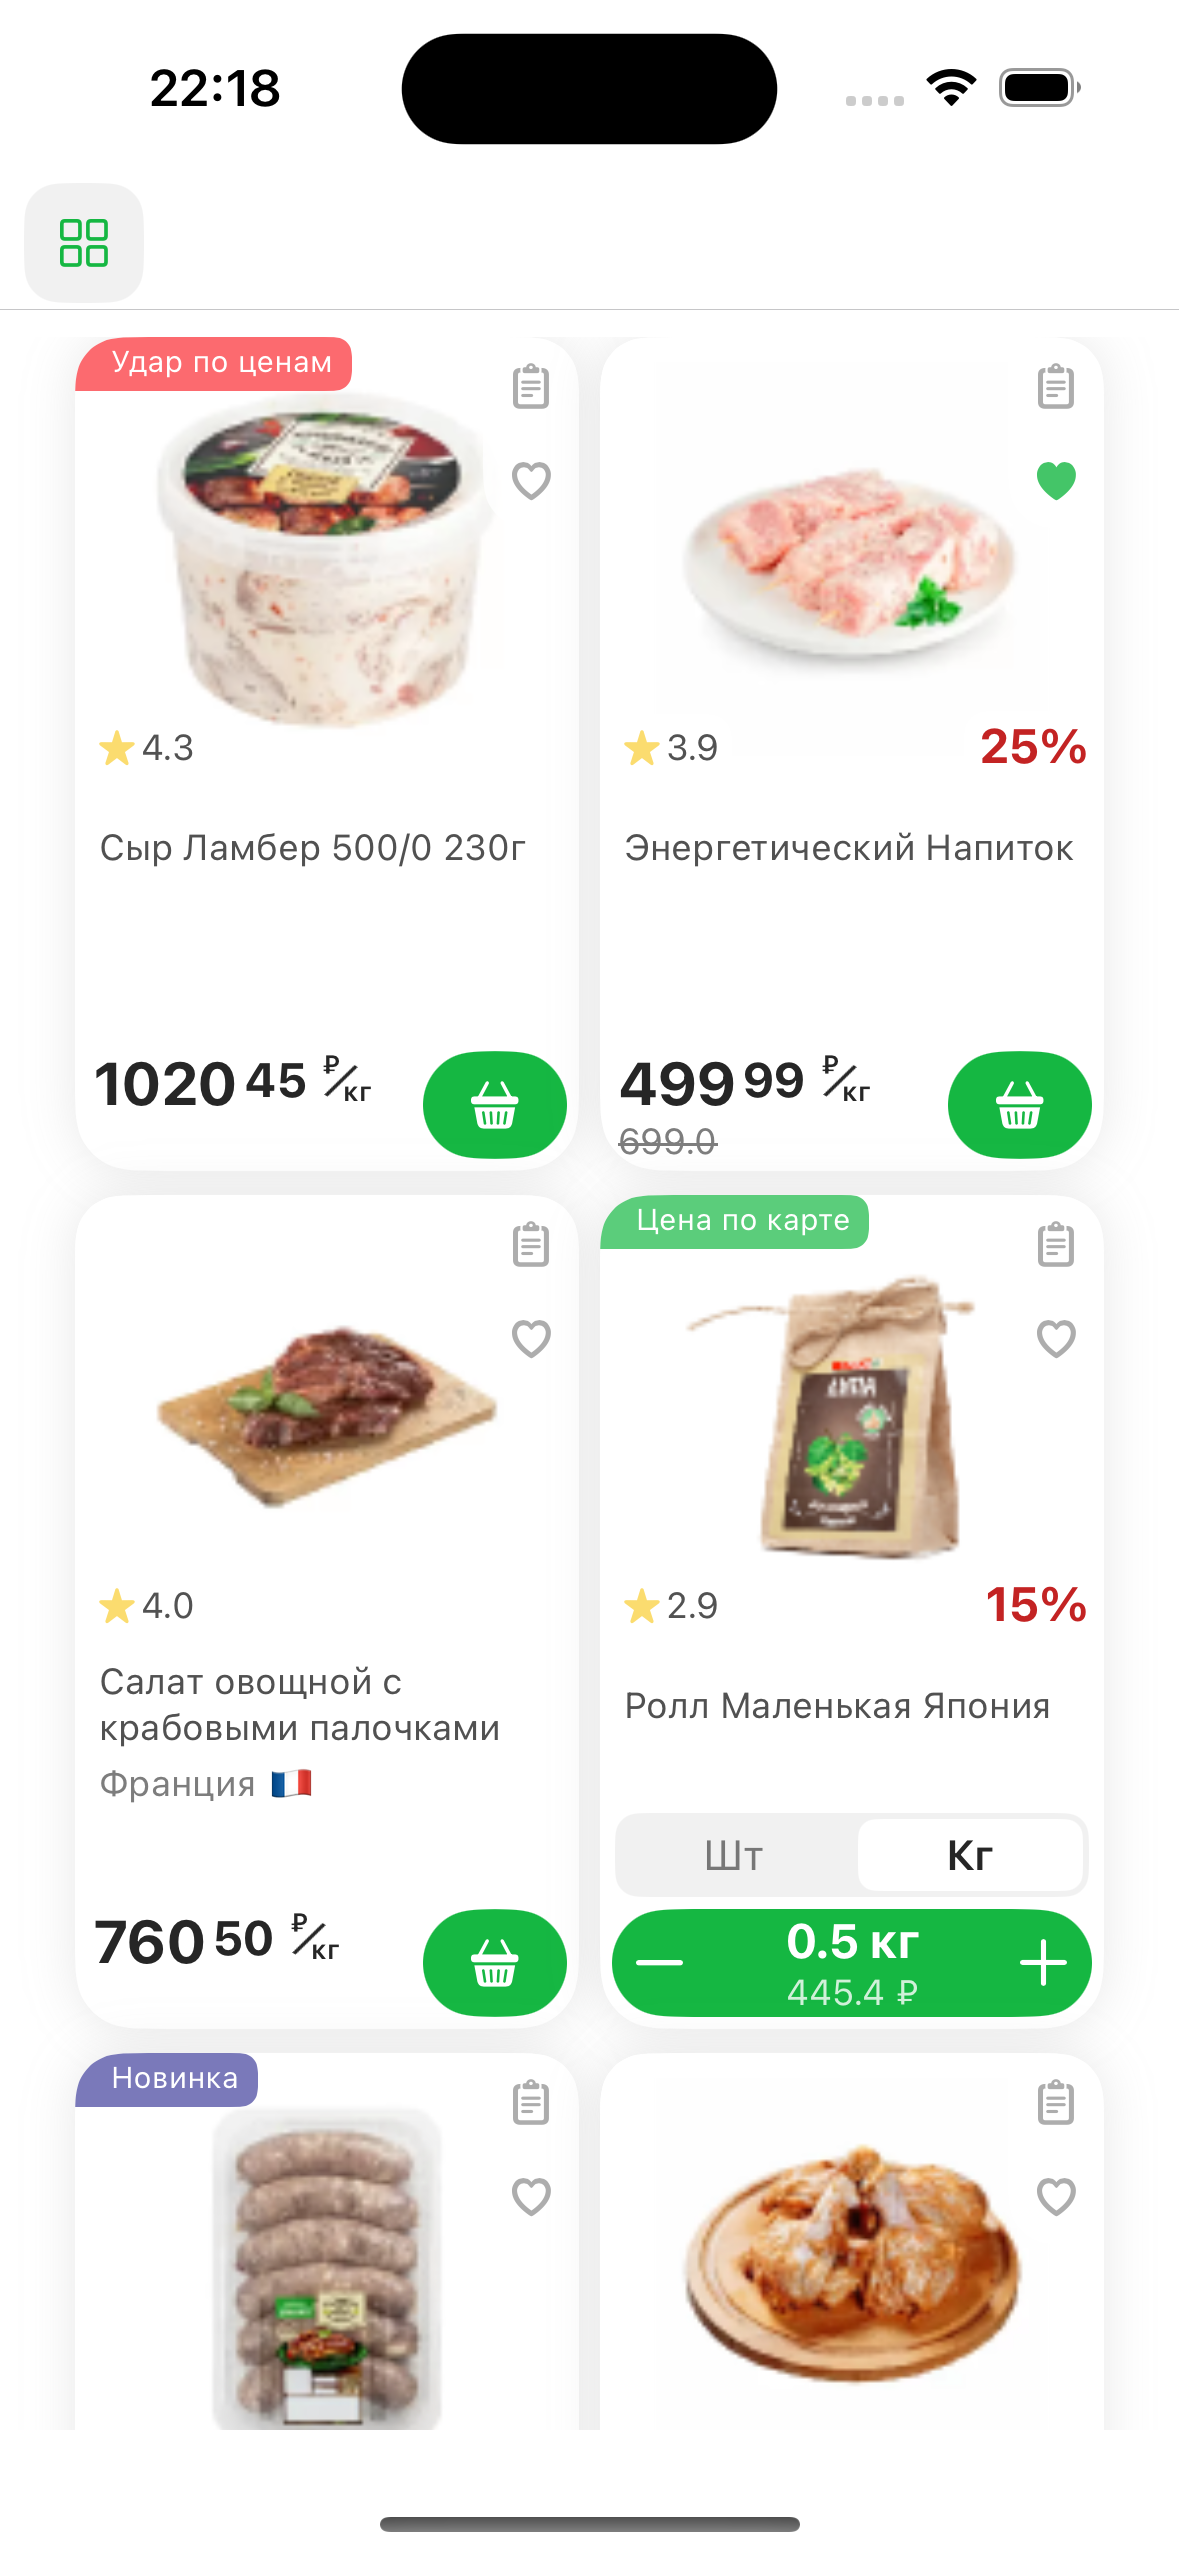
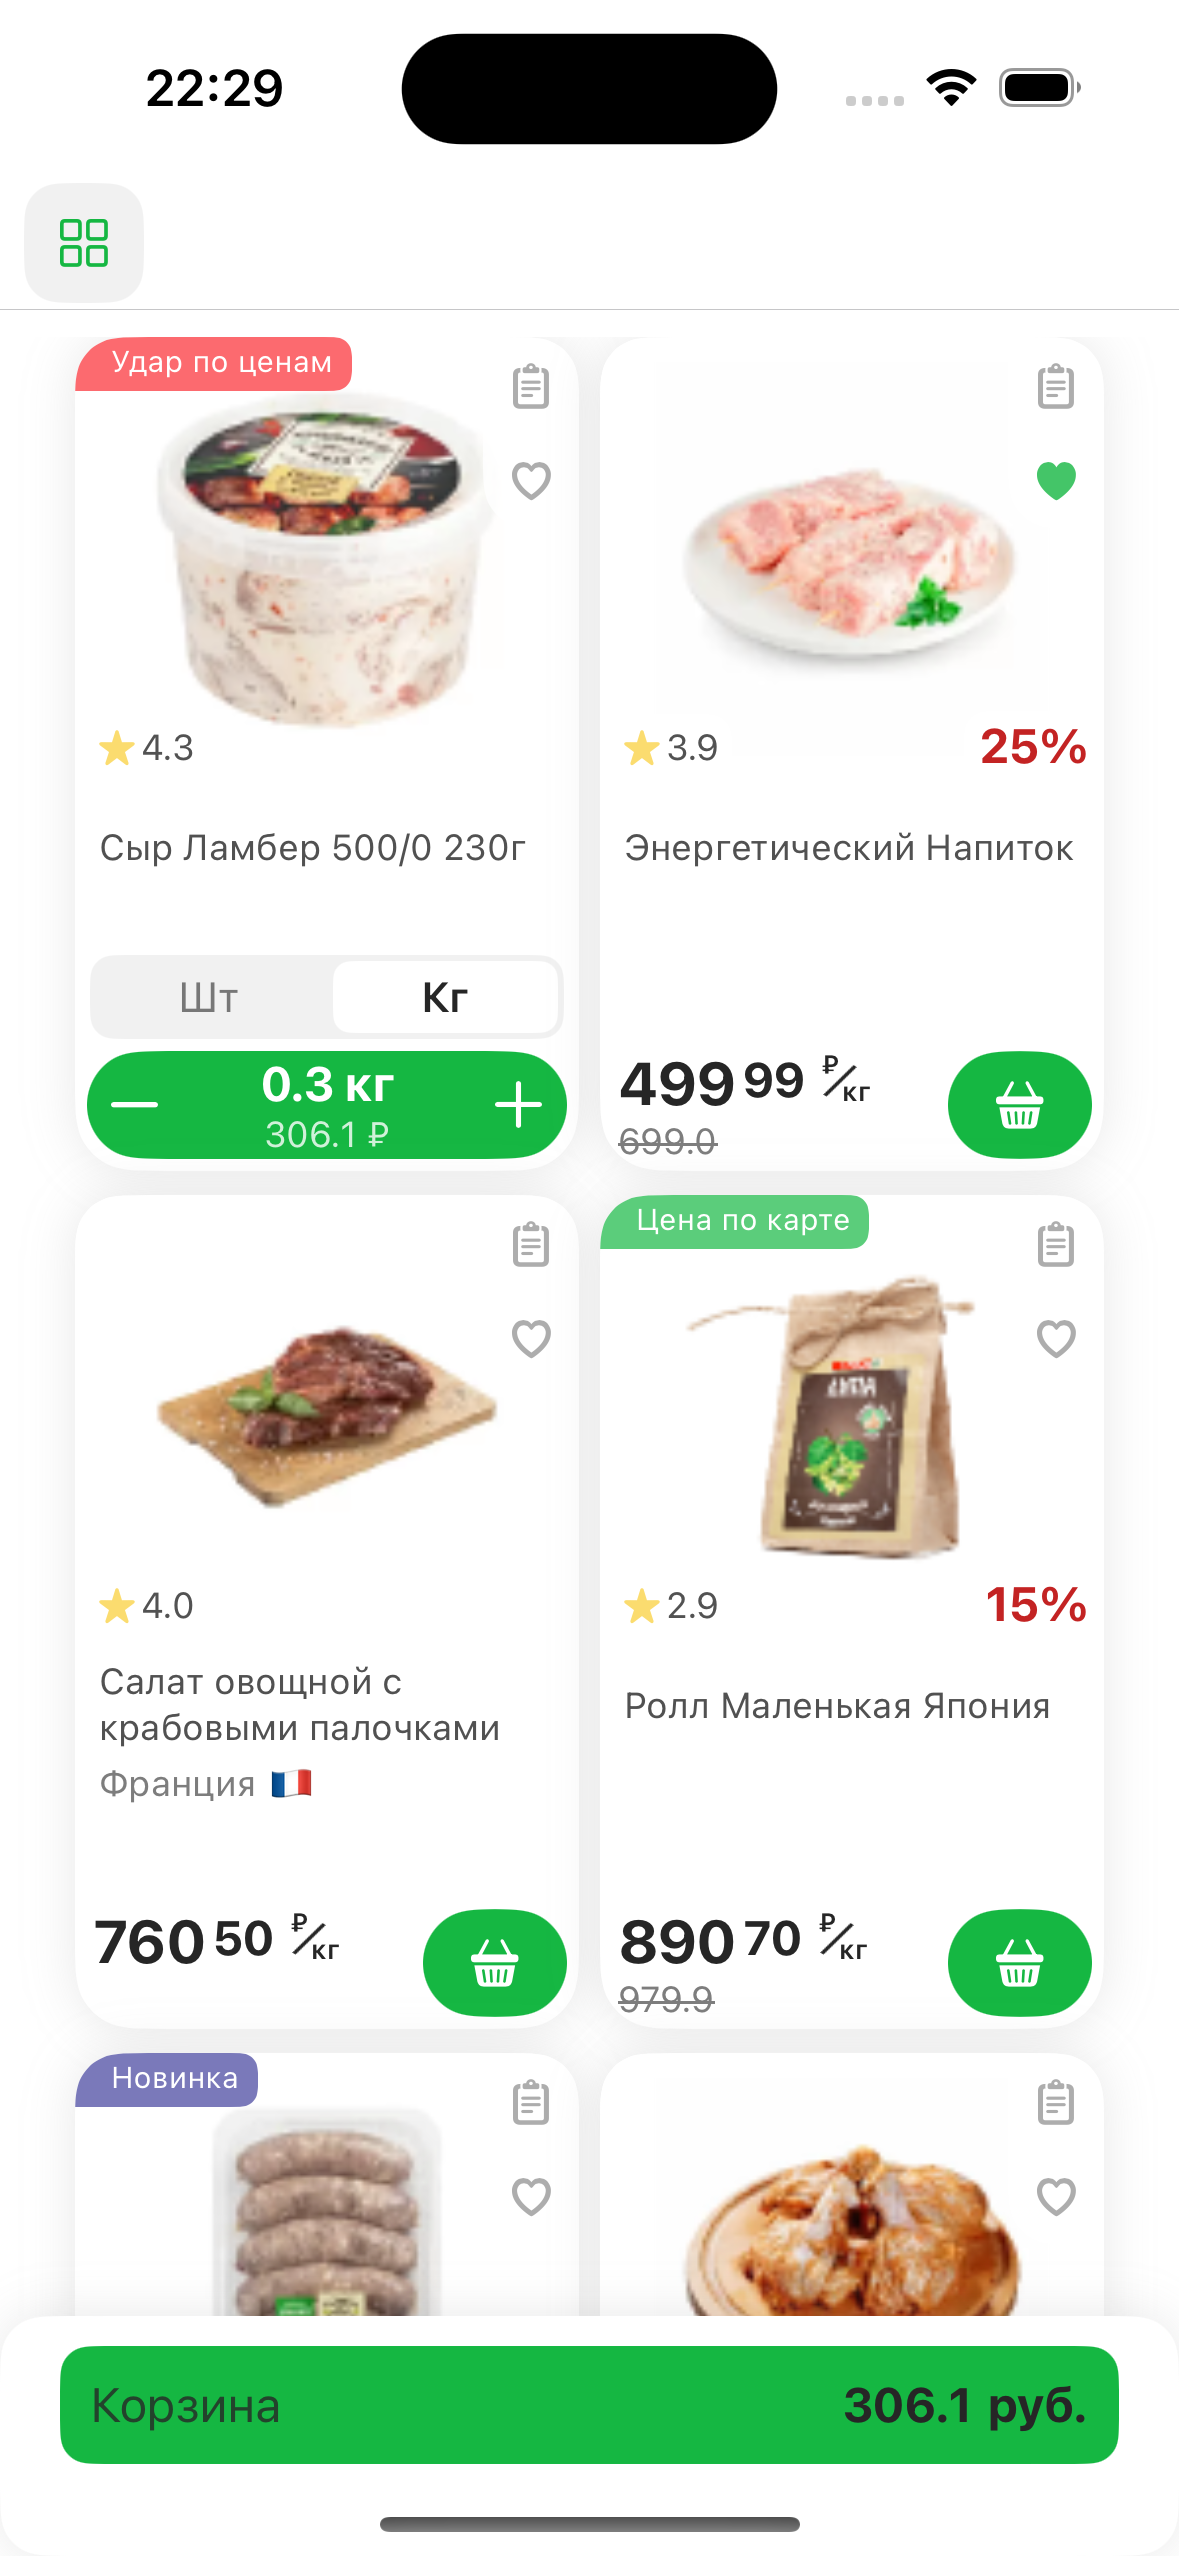
Little fixes

diff --git a/GroceryStore/Views/GridCell.swift b/GroceryStore/Views/GridCell.swift
@@ -9,9 +9,6 @@ import SwiftUI
 
 struct GridCell: View {
     
-    @State private var selectedOption: String = "Кг"
-    @State private var isBuyButtonSelected: Bool = false
-    @ObservedObject var viewModel: FoodSelectionViewModel
     @Binding var foodData: Food
     
     var body: some View {
@@ -24,7 +21,7 @@ struct GridCell: View {
                     HStack(alignment: .top, spacing: 0) {
                         SpecialOfferView(offerText: foodData.specialOffer, offerColor: foodData.specialOfferColor)
                         Spacer()
-                        ActionButtonsView()
+                        ActionButtonsView(isHeartButtonTapped: $foodData.isSelected)
                     }
                     Spacer()
                     HStack(alignment: .bottom, spacing: 0) {
@@ -35,7 +32,6 @@ struct GridCell: View {
                 }
             }
             .frame(width: 168, height: 148)
-            
             
             // middle
             VStack(alignment: .leading, spacing: 0) {
@@ -49,8 +45,8 @@ struct GridCell: View {
             .frame(width: 168, height: 58)
             
             VStack(alignment: .leading, spacing: 0) {
-                if isBuyButtonSelected {
-                    SwitchView(selectedOption: $selectedOption)
+                if foodData.isBuyButtonSelected {
+                    SwitchView(selectedOption: $foodData.selectedOption)
                         .padding(.horizontal, 5)
                 }
             }
@@ -58,12 +54,12 @@ struct GridCell: View {
             
             // bottom
             HStack(spacing: 0) {
-                if isBuyButtonSelected {
-                    if selectedOption == "Кг" {
-                        CounterKilosView(isBuyButtonSelected: $isBuyButtonSelected, pricePerKilo: foodData.pricePerKilo)
+                if foodData.isBuyButtonSelected {
+                    if foodData.selectedOption == "Кг" {
+                        CounterKilosView(kilos: $foodData.amountInKilos, finalKiloPrice: $foodData.finalKiloPrice, isBuyButtonSelected: $foodData.isBuyButtonSelected, pricePerKilo: foodData.pricePerKilo)
                             .padding(4)
                     } else {
-                        CounterAmountView(isBuyButtonSelected: $isBuyButtonSelected, priceForOne: foodData.priceForOne)
+                        CounterAmountView(amount: $foodData.amount, finalAmountPrice: $foodData.finalAmountPrice, isBuyButtonSelected: $foodData.isBuyButtonSelected, priceForOne: foodData.priceForOne)
                             .padding(4)
                     }
                     
@@ -72,10 +68,9 @@ struct GridCell: View {
                         .padding(4)
                         .padding(.leading, 2)
                     Spacer()
-                    BuyButtonView(isBuyButtonSelected: $isBuyButtonSelected)
+                    BuyButtonView(isBuyButtonSelected: $foodData.isBuyButtonSelected)
                         .padding(4)
                 }
-                
             }
             .frame(width: 168, height: 44)
         }
@@ -89,6 +84,13 @@ struct GridCell: View {
                 topTrailingRadius: 16
             )
         )
+        .onChange(of: foodData.isBuyButtonSelected) { _, _ in
+            foodData.amountInKilos = 0.0
+            foodData.amount = 0
+            foodData.finalKiloPrice = 0.0
+            foodData.finalAmountPrice = 0.0
+            foodData.selectedOption = "Кг"
+        }
         .shadow(color: .shadow.opacity(0.2), radius: 8, x: 0, y: 0)
     }
 }

diff --git a/GroceryStore/Views/ListCell.swift b/GroceryStore/Views/ListCell.swift
@@ -9,9 +9,6 @@ import SwiftUI
 
 struct ListCell: View {
     
-    @State private var selectedOption: String = "Кг"
-    @State private var isBuyButtonSelected: Bool = false
-    @ObservedObject var viewModel: FoodSelectionViewModel
     @Binding var foodData: Food
     
     var body: some View {
@@ -57,29 +54,28 @@ struct ListCell: View {
                     .frame(height: 72)
                     
                     VStack {
-                        if isBuyButtonSelected {
-                            SwitchView(selectedOption: $selectedOption)
+                        if foodData.isBuyButtonSelected {
+                            SwitchView(selectedOption: $foodData.selectedOption)
                                 .padding(.horizontal, 5)
                         }
                     }
                     .frame(height: 28)
                     
                     HStack(spacing: 0) {
-                        if isBuyButtonSelected {
-                            if selectedOption == "Кг" {
-                                CounterKilosView(isBuyButtonSelected: $isBuyButtonSelected, pricePerKilo: foodData.pricePerKilo)
+                        if foodData.isBuyButtonSelected {
+                            if foodData.selectedOption == "Кг" {
+                                CounterKilosView(kilos: $foodData.amountInKilos, finalKiloPrice: $foodData.finalKiloPrice, isBuyButtonSelected: $foodData.isBuyButtonSelected, pricePerKilo: foodData.pricePerKilo)
                                     .padding(4)
                             } else {
-                                CounterAmountView(isBuyButtonSelected: $isBuyButtonSelected, priceForOne: foodData.priceForOne)
+                                CounterAmountView(amount: $foodData.amount, finalAmountPrice: $foodData.finalAmountPrice, isBuyButtonSelected: $foodData.isBuyButtonSelected, priceForOne: foodData.priceForOne)
                                     .padding(4)
                             }
-                            
                         } else {
                             PricesView(pricePerKilo: foodData.pricePerKilo, oldPrice: foodData.oldPrice)
                                 .padding(4)
                                 .padding(.leading, 4)
                             Spacer()
-                            BuyButtonView(isBuyButtonSelected: $isBuyButtonSelected)
+                            BuyButtonView(isBuyButtonSelected: $foodData.isBuyButtonSelected)
                                 .padding(4)
                         }
                     }
@@ -89,7 +85,7 @@ struct ListCell: View {
                 VStack(spacing: 0) {
                     HStack(spacing: 0) {
                         Spacer()
-                        ActionButtonsView()
+                        ActionButtonsView(isHeartButtonTapped: $foodData.isSelected)
                     }
                     Spacer()
                 }
@@ -101,5 +97,12 @@ struct ListCell: View {
         .frame(maxWidth: .infinity)
         .frame(height: 176)
         .background(.white)
+        .onChange(of: foodData.isBuyButtonSelected) { _, _ in
+            foodData.amountInKilos = 0.0
+            foodData.amount = 0
+            foodData.finalKiloPrice = 0.0
+            foodData.finalAmountPrice = 0.0
+            foodData.selectedOption = "Кг"
+        }
     }
 }

diff --git a/GroceryStore/Views/FoodSelectionView.swift b/GroceryStore/Views/FoodSelectionView.swift
@@ -11,19 +11,39 @@ struct FoodSelectionView: View {
     
     @StateObject private var viewModel = FoodSelectionViewModel()
     
+    @State private var showFinalPrice: Bool = false
     @State private var isGridSelected: Bool = true
     
     var body: some View {
-        VStack (spacing: 0) {
+        
+        VStack(spacing: 0) {
             NavigationBarView(isGridSelected: $isGridSelected)
             Divider()
             if isGridSelected {
                 FoodGrid(viewModel: viewModel)
                     .padding(.top, 9)
+                    .padding(.bottom, showFinalPrice ? 80 : 0)
             } else {
                 FoodList(viewModel: viewModel)
+                    .padding(.bottom, showFinalPrice ? 80 : 0)
+                    
             }
-            Spacer()
+        }
+        .overlay(alignment: .bottom) {
+            if showFinalPrice {
+                CartView(viewModel: viewModel)
+                    .transition(.move(edge: .bottom))
+            }
+        }
+        .ignoresSafeArea(.all, edges: .bottom)
+        .onChange(of: viewModel.finalPrice) { _, newValue in
+            withAnimation {
+                if newValue != "0.0" {
+                    showFinalPrice = true
+                } else {
+                    showFinalPrice = false
+                }
+            }
         }
     }
 }
@@ -65,8 +85,8 @@ struct FoodGrid: View {
     var body: some View {
         ScrollView(showsIndicators: false) {
             LazyVGrid(columns: [GridItem(.fixed(168), spacing: 7), GridItem(.fixed(168), spacing: 7)], spacing: 8) {
-                ForEach($viewModel.foodData, id: \.self) { foodData in
-                    GridCell(viewModel: viewModel, foodData: foodData)
+                ForEach($viewModel.foodData) { $food in
+                    GridCell(foodData: $food)
                 }
             }
         }
@@ -80,18 +100,11 @@ struct FoodList: View {
     var body: some View {
         ScrollView(showsIndicators: false) {
             LazyVGrid(columns: [GridItem(.flexible())]) {
-                ForEach($viewModel.foodData, id: \.self) { foodData in
-                    ListCell(viewModel: viewModel, foodData: foodData)
+                ForEach($viewModel.foodData) { $food in
+                    ListCell(foodData: $food)
                     Divider()
                 }
             }
         }
     }
 }
-
-
-//#Preview {
-//    FoodSelectionView()
-//}
-
-

diff --git a/GroceryStore/ViewModels/FoodSelectionViewModel.swift b/GroceryStore/ViewModels/FoodSelectionViewModel.swift
@@ -15,7 +15,22 @@ class FoodSelectionViewModel: ObservableObject {
         Food(title: "Ролл Маленькая Япония", image: "Food4", rating: "2.9", discount: "15%", priceForOne: 175.90, amount: 0, pricePerKilo: 890.70, amountInKilos: 0.0, oldPrice: "979.9", country: nil, countryFlag: nil, specialOffer: "Цена по карте", specialOfferColor: .specialOfferGreen, amountReviews: "9", finalAmountPrice: 0.0, finalKiloPrice: 0.0),
         Food(title: "Манго Кео", image: "Food5", rating: "4.8", discount: nil, priceForOne: 190.0, amount: 0, pricePerKilo: 195.30, amountInKilos: 0.0, oldPrice: nil, country: "Египет", countryFlag: "🇪🇬", specialOffer: "Новинка", specialOfferColor: .specialOfferPurple, amountReviews: "0", finalAmountPrice: 0.0, finalKiloPrice: 0.0),
         Food(title: "Макаронные Изделия SPAR Спагетти 450г", image: "Food6", rating: "4.1", discount: nil, priceForOne: 93.5, amount: 0, pricePerKilo: 205.30, amountInKilos: 0.0, oldPrice: nil, country: nil, countryFlag: nil, specialOffer: nil, specialOfferColor: nil, amountReviews: "44", finalAmountPrice: 0.0, finalKiloPrice: 0.0)
-    ]
+    ] {
+        didSet {
+            cartSum()
+        }
+    }
     
+    @Published var finalPrice: String = "0.0"
+    
+    // Метод для расчета итоговой суммы
+    func cartSum() {
+        var result: Double = 0.0
+        for i in 0..<foodData.count {
+            let sumAmoumtKilos = foodData[i].finalAmountPrice + foodData[i].finalKiloPrice
+            result += sumAmoumtKilos
+        }
+        finalPrice = String(format: "%.1f", result)
+    }
     
 }

diff --git a/GroceryStore/Views/CartView.swift b/GroceryStore/Views/CartView.swift
@@ -1,0 +1,47 @@
+//
+//  CartView.swift
+//  GroceryStore
+//
+//  Created by Kamil Biktineyev on 09.08.2024.
+//
+
+import SwiftUI
+
+struct CartView: View {
+    
+    @ObservedObject var viewModel: FoodSelectionViewModel
+    
+    var body: some View {
+        VStack(spacing: 0) {
+            HStack(spacing: 0) {
+                Text("Корзина")
+                    .font(.system(size: 16))
+                    .foregroundColor(.foodTitleBlack)
+                    .opacity(0.8)
+                Spacer()
+                
+                HStack(spacing: 5) {
+                    Text(viewModel.finalPrice)
+                        .font(.system(size: 16))
+                        .foregroundColor(.foodTitleBlack)
+                        .fontWeight(.bold)
+                    Text("руб.")
+                        .font(.system(size: 16))
+                        .foregroundColor(.foodTitleBlack)
+                        .fontWeight(.bold)
+                }
+            }
+            .padding(10)
+            .background(.navButtonGreen)
+            .cornerRadius(10)
+            .padding(.horizontal, 20)
+            .padding(.top, 10)
+           Spacer()
+        }
+        .frame(maxWidth: .infinity)
+        .frame(height: 80)
+        .background(.white)
+        .cornerRadius(15)
+        .shadow(color: .shadow.opacity(0.2), radius: 8, x: 0, y: 0)
+    }
+}

diff --git a/GroceryStore/Views/CellElements.swift b/GroceryStore/Views/CellElements.swift
@@ -47,7 +47,7 @@ struct SpecialOfferView: View {
 
 struct ActionButtonsView: View {
     
-    @State var isHeartButtonTapped: Bool = false
+    @Binding var isHeartButtonTapped: Bool
     
     var body: some View {
         VStack(spacing: 0) {
@@ -310,8 +310,8 @@ struct BuyButtonView: View {
 
 struct CounterKilosView: View {
     
-    @State private var kilos: Double = 0.0
-    @State private var finalKiloPrice: Double = 0.0
+    @Binding var kilos: Double
+    @Binding var finalKiloPrice: Double
     @Binding var isBuyButtonSelected: Bool
     var pricePerKilo: Double
     
@@ -384,8 +384,8 @@ struct CounterKilosView: View {
 
 struct CounterAmountView: View {
     
-    @State private var amount: Int = 0
-    @State private var finalAmountPrice: Double = 0.0
+    @Binding var amount: Int
+    @Binding var finalAmountPrice: Double
     @Binding var isBuyButtonSelected: Bool
     var priceForOne: Double
     

diff --git a/GroceryStore/Models/FoodModel.swift b/GroceryStore/Models/FoodModel.swift
@@ -7,7 +7,7 @@
 import Foundation
 import SwiftUI
 
-struct Food: Hashable, Equatable {
+struct Food: Hashable, Equatable, Identifiable {
     let id: UUID = UUID()
     let title: String
     let image: String
@@ -25,4 +25,7 @@ struct Food: Hashable, Equatable {
     let amountReviews: String
     var finalAmountPrice: Double
     var finalKiloPrice: Double
+    var isBuyButtonSelected: Bool = false
+    var selectedOption: String = "Кг"
+    var isSelected: Bool = false
 }
